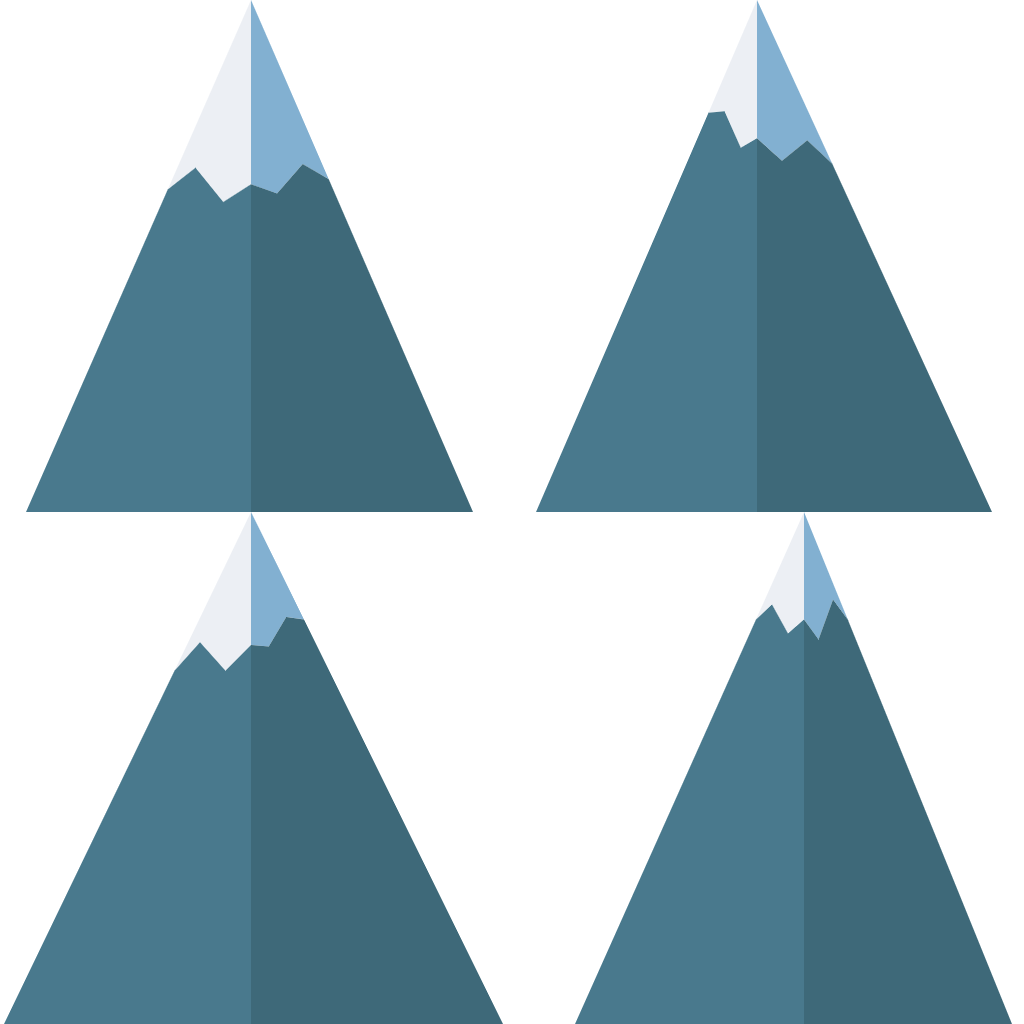
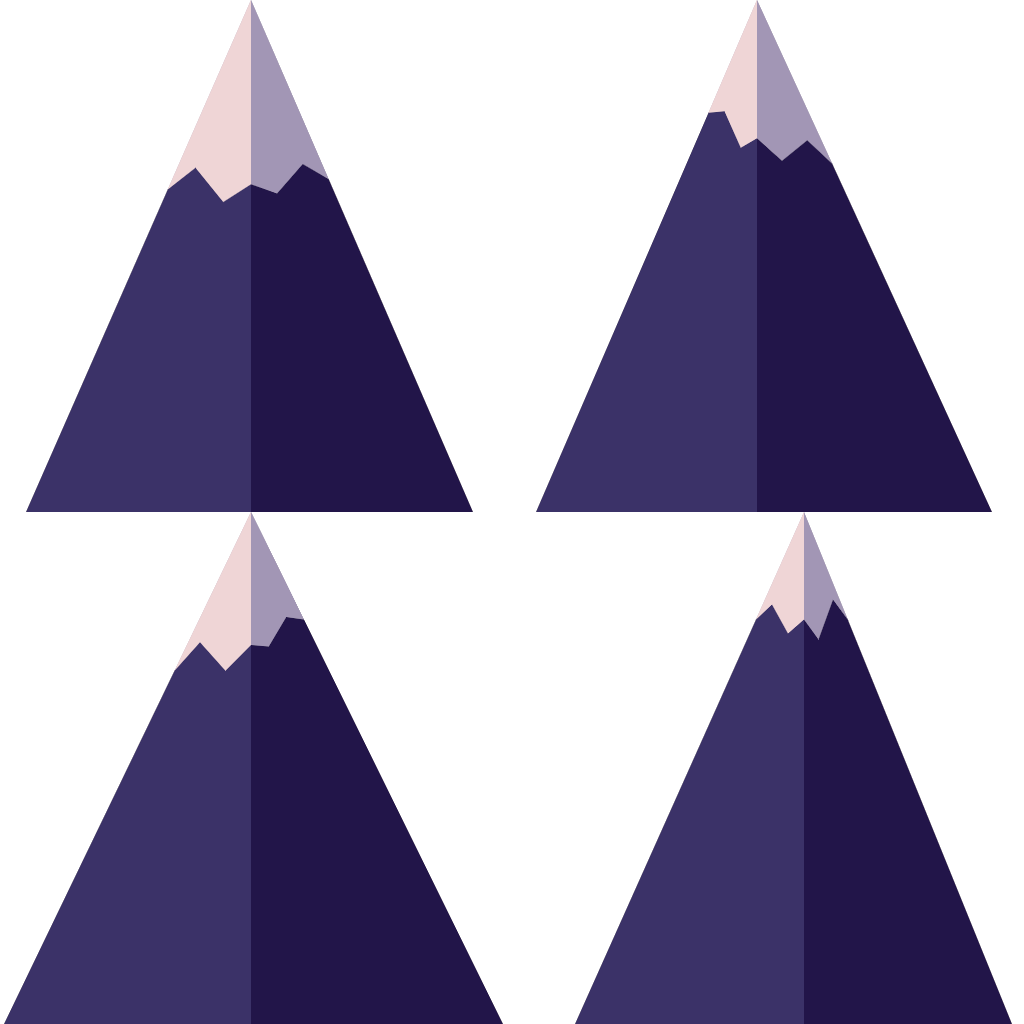
made background black made mountains and platform purple also the images are now in an images folder under assets

diff --git a/public/js/phaserTest.js b/public/js/phaserTest.js
@@ -62,7 +62,7 @@ window.onload = function () {
         width: 1334,
         height: 750,
         scene: [preloadGame, playGame],
-        backgroundColor: 0x0c88c7,
+        backgroundColor: "#000000",
 
         // physics settings
         physics: {
@@ -91,6 +91,8 @@ class preloadGame extends Phaser.Scene {
         // Add in the game background music
         this.load.audio("background-music", "assets/audio/background-music.mp3");
 
+        this.load.image("starbackground", "assets/images/nightStars.png");
+
         this.load.image("platform", "assets/images/platform.png");
 
         // player is a sprite sheet made by 24x48 pixels
@@ -118,7 +120,6 @@ class preloadGame extends Phaser.Scene {
         });
     }
 
-    // Create Statement for the Animations
     create() {
 
         // setting player animation
@@ -155,6 +156,12 @@ class preloadGame extends Phaser.Scene {
             repeat: -1
         });
 
+        // ---- Audio Creation ---- //
+
+        var music = this.sound.add('background-music');
+        music.setLoop(true);
+        music.play();
+
         this.scene.start("PlayGame");
     }
 }
@@ -166,11 +173,6 @@ class playGame extends Phaser.Scene {
     }
     create() {
 
-        // ---- Audio Creation ---- //
-
-        var music = this.sound.add('background-music');
-        music.setLoop(true);
-        music.play();
 
         timeText = this.add.text(160, 140, 'Time: 0', { fontSize: '32px', fill: '#000' });
         scoreText = this.add.text(160, 160, 'Score: 0', { fontSize: '32px', fill: '#000' });
@@ -412,6 +414,7 @@ class playGame extends Phaser.Scene {
     }
 
     update() {
+
 
         // game over
         if (this.player.y > game.config.height) {
